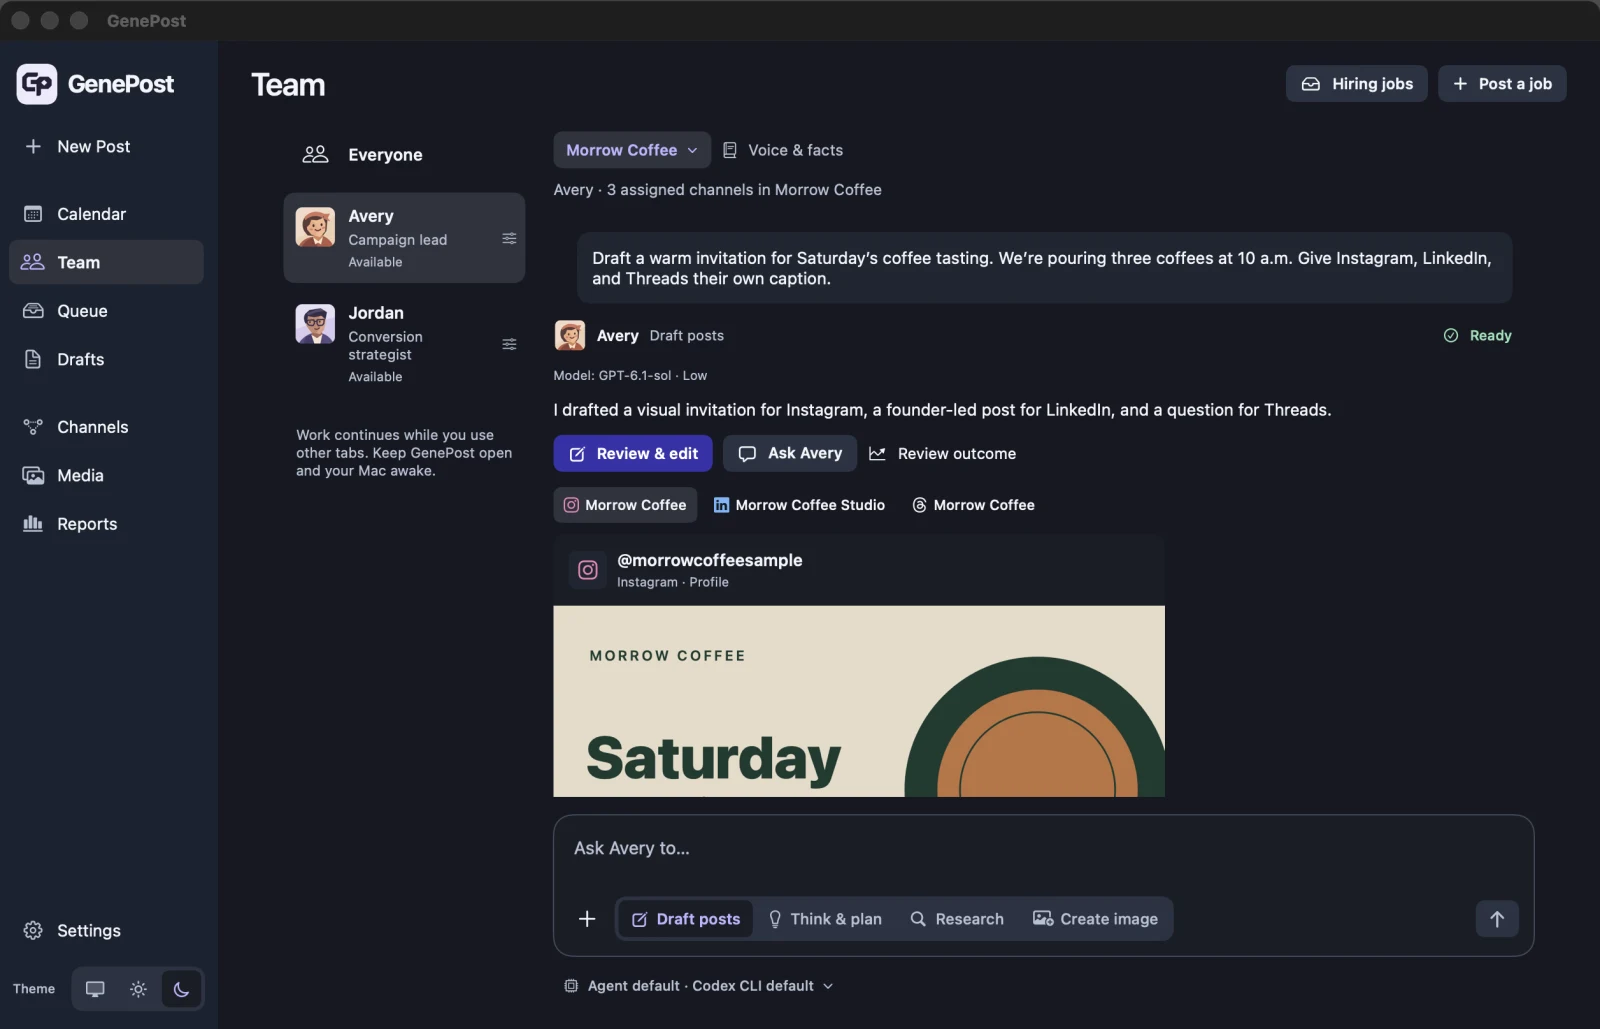
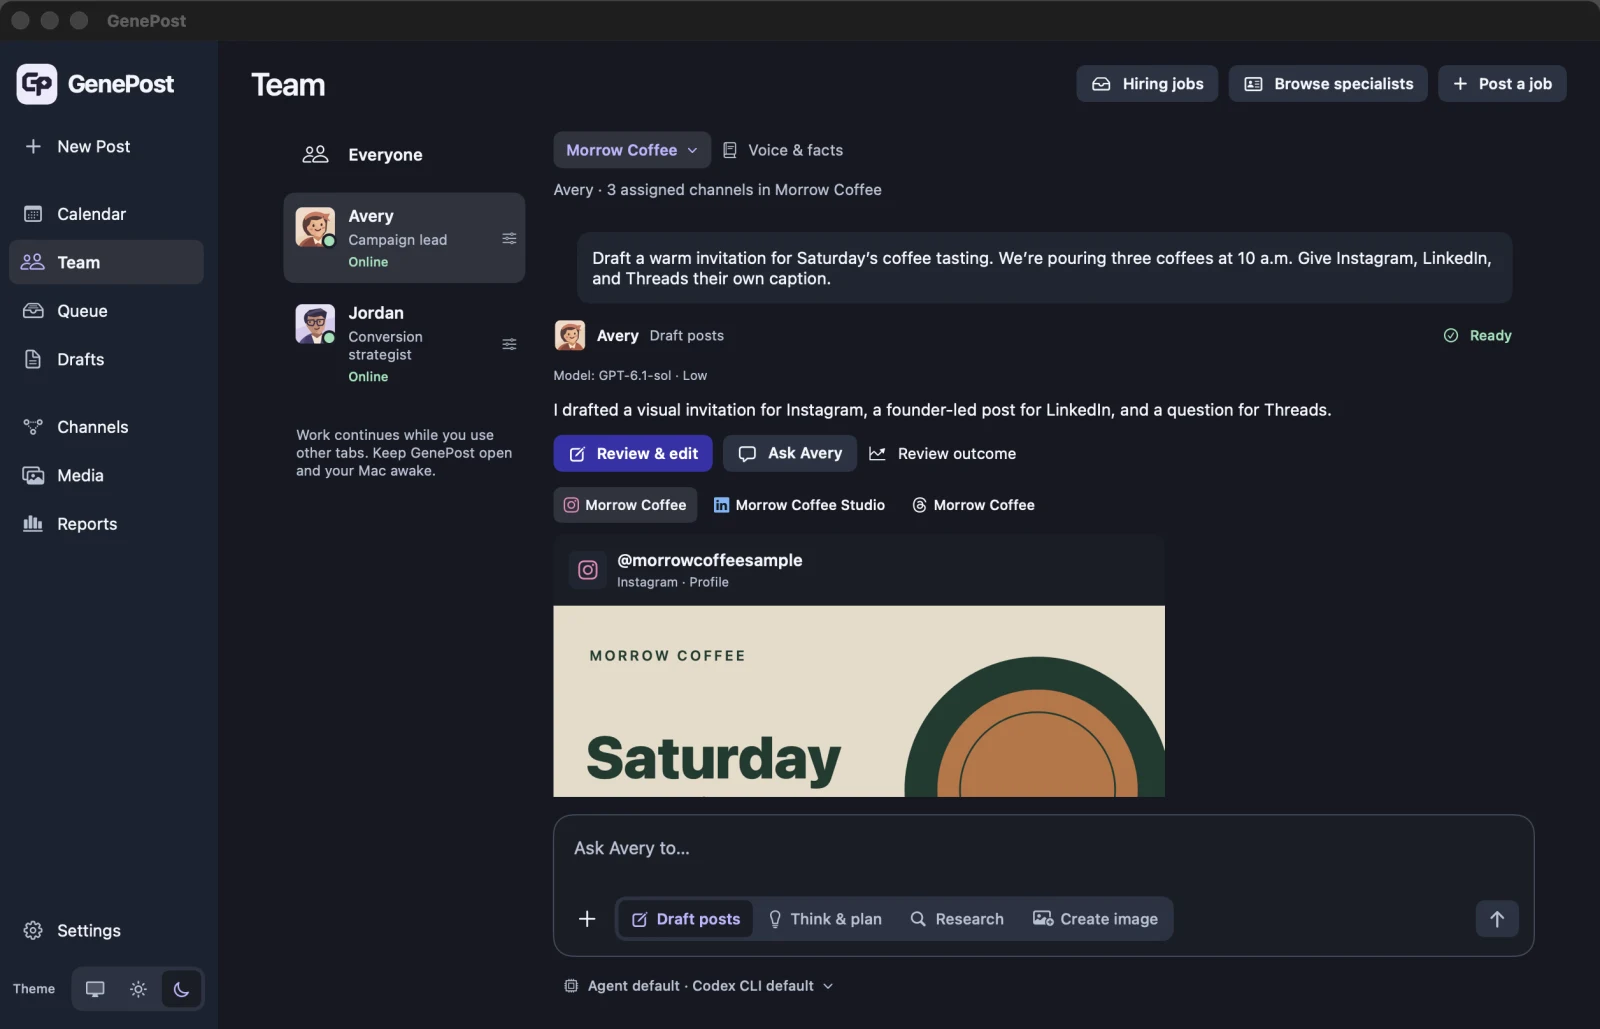
Show the available specialist directory and presence

diff --git a/assets/site.js b/assets/site.js
@@ -80,6 +80,7 @@ function newState(campaignID, seed = true) {
   return {
     campaignID, campaign, view: 'compose', theme: 'dark', idea: campaign.idea,
     jobTitle: campaign.job, jobDescription: campaign.scope, hireStep: '', hiring: null, team: [],
+    directorySpecialist: null, directRole: null,
     channels, platform: channels[0], captions: null,
     media: [
       { id: 'cover', name: campaign.media.name, src: assets + campaign.media.file, alt: campaign.media.alt },
@@ -107,15 +108,16 @@ function action(name, label, { value = '', kind = '', glyph = '', pressed, title
     (glyph ? icon(glyph) : '') + label + '</button>';
 }
 const avatar = candidate => '<img class="agent-avatar" src="' + assets + 'team-marks/' + candidate.avatar + '" width="64" height="64" alt="">';
+const onlineAvatar = person => '<span class="agent-presence">' + avatar(person) + '<i aria-hidden="true"></i></span>';
 
 const walkthrough = [
   ['Choose channels', '.demo-sidebar [data-value="channels"]', { chapter: 'channels', hold: 1550 }],
   ['Open Team', '.demo-sidebar [data-value="team"]', { chapter: 'hire' }],
+  ['Browse specialists', '[data-action="browse-specialists"]', { hold: 1000 }],
+  ['Review sample work', '[data-action="select-specialist"][data-value="Sol"]', { hold: 2000 }],
+  ['Return to Team', '[data-action="close-portfolios"]', { hold: 750 }],
   ['Post a job', '[data-action="post-job"]'],
   ['Post the role', '[data-submit="post-role"] button[type="submit"]', { hold: 2050 }],
-  ['Browse portfolios', '[data-action="browse-portfolios"]', { hold: 1000 }],
-  ['Review sample work', '[data-action="select-specialist"][data-value="Sol"]', { hold: 2000 }],
-  ['Return to job', '[data-action="close-portfolios"]', { hold: 750 }],
   ['Review applications', '[data-action="review-applications"]', { hold: 1150 }],
   ['Compare applicants', '[data-action="candidate"][data-value="Jordan"]', { hold: 1650 }],
   ['Start interview', '[data-action="interview"]', { hold: 1200 }],
@@ -193,10 +195,13 @@ function mountDemo(root, preview = false) {
   const brand = () => '<span class="app-brand">' + escapeHTML(state.campaign.name) + '</span>';
   const empty = (glyph, text, button = '') => '<div class="app-empty">' + icon(glyph) + '<p>' + text + '</p>' + button + '</div>';
   const availableSpecialists = () => candidates.filter(person => !state.team.some(member => member.person.name === person.name));
+  const directHiring = () => state.hireStep.startsWith('direct-');
+  const hiringJob = () => directHiring() ? state.directRole : state.hiring;
 
   function hiringCandidate() {
-    const job = state.hiring;
-    const name = state.hireStep === 'interview' ? job.interviewing : state.hireStep === 'portfolios' ? job.portfolio : job.selected;
+    const job = hiringJob();
+    const name = state.hireStep === 'directory' ? state.directorySpecialist :
+      state.hireStep.endsWith('interview') ? job.interviewing : state.hireStep === 'portfolios' ? job.portfolio : job.selected;
     return candidates.find(person => person.name === name);
   }
   const upload = () => '<label class="app-button upload">' + icon('upload') +
@@ -251,15 +256,17 @@ function mountDemo(root, preview = false) {
   }
 
   function team() {
-    const job = state.hiring;
-    if (state.hireStep === 'job') {
-      return heading('Post a job', brand()) + '<form class="app-stack job-form" data-submit="post-role">' +
-        '<label class="app-field">Job title<input data-field="jobTitle" required maxlength="64" value="' + escapeHTML(state.jobTitle) + '"></label>' +
-        '<label class="app-field">Job description<textarea data-field="jobDescription" required rows="3" maxlength="300">' +
-        escapeHTML(state.jobDescription) + '</textarea></label>' +
+    const job = hiringJob();
+    if (state.hireStep === 'job' || state.hireStep === 'direct-role') {
+      const direct = directHiring();
+      return heading(direct ? 'Set up ' + job.selected + '’s role' : 'Post a job', brand()) +
+        '<form class="app-stack job-form" data-submit="' + (direct ? 'prepare-role' : 'post-role') + '">' +
+        '<label class="app-field">Role title<input data-field="jobTitle" required maxlength="64" value="' + escapeHTML(direct ? job.title : state.jobTitle) + '"></label>' +
+        '<label class="app-field">Role description<textarea data-field="jobDescription" required rows="3" maxlength="300">' +
+        escapeHTML(direct ? job.description : state.jobDescription) + '</textarea></label>' +
         '<div class="app-row">' + state.channels.map(platformName).map(label => '<span class="agent-chip">' + label + '</span>').join('') + '</div>' +
-        '<div class="app-row job-actions">' + action('team-home', 'Cancel', { kind: 'job-back' }) +
-        '<button class="app-button app-primary" type="submit">' + icon('right') + 'Post job</button></div></form>';
+        '<div class="app-row job-actions">' + action(direct ? 'browse-specialists' : 'team-home', 'Cancel', { kind: 'job-back' }) +
+        '<button class="app-button app-primary" type="submit">' + icon('right') + (direct ? 'Start interview' : 'Post job') + '</button></div></form>';
     }
     if (state.hireStep === 'posted') {
       return heading('Job posted', brand()) + '<div class="job-receipt app-stack">' +
@@ -289,14 +296,16 @@ function mountDemo(root, preview = false) {
         action('interview', job.interviews[candidate.name]?.turns.length ? 'Open interview' : 'Start interview',
           { glyph: 'right', kind: 'app-primary' }) + '</div></div></section></div>';
     }
+    if (state.hireStep === 'directory') return portfolios();
     if (state.hireStep === 'portfolios') return portfolios(job);
-    if (state.hireStep === 'interview') {
+    if (state.hireStep.endsWith('interview')) {
       const candidate = hiringCandidate();
       const { draft, turns } = job.interviews[candidate.name];
       const directions = turns.filter(turn => turn.direction);
       return heading('Interview ' + candidate.name, brand()) +
         '<div class="job-context"><p>' + escapeHTML(job.title) + '</p>' +
-        action('close-interview', job.interviewFrom === 'portfolios' ? 'Portfolios' : 'Applications', { glyph: 'left', kind: 'job-back' }) + '</div>' +
+        action('close-interview', directHiring() ? 'Role setup' : job.interviewFrom === 'portfolios' ? 'Portfolios' : 'Applications',
+          { glyph: 'left', kind: 'job-back' }) + '</div>' +
         '<div class="interview-thread app-stack" aria-label="Sample interview">' +
         '<div class="interview-line">' + avatar(candidate) + '<p>What voice should I use for this role?</p></div>' +
         turns.map((turn, index) => '<div class="interview-line interview-you"><p>' + escapeHTML(turn.message) + '</p></div>' +
@@ -314,12 +323,15 @@ function mountDemo(root, preview = false) {
       '<span><strong>' + escapeHTML(job.title) + '</strong><small>' +
       (job.ready ? (job.reviewed ? 'Applications' : job.applicants.length + ' new applications') : 'Waiting for applications') + '</small></span>',
       { glyph: 'team', kind: 'app-list-row' }) + '</div>' : '';
-    return heading('Team', job || state.team.length === candidates.length ? brand() : action('post-job', 'Post a job', { glyph: 'plus', kind: 'app-primary' })) +
+    const hiringActions = availableSpecialists().length ? '<div class="app-row">' +
+      action('browse-specialists', 'Browse specialists', { glyph: 'drafts' }) +
+      (job ? '' : action('post-job', 'Post a job', { glyph: 'plus', kind: 'app-primary' })) + '</div>' : brand();
+    return heading('Team', hiringActions) +
       openJob +
       (state.team.length
         ? '<div class="team-list">' + state.team.map(({ person, directions }) =>
-          '<div class="app-list-row">' + avatar(person) + '<span><strong>' + person.name + '</strong><small>' +
-          person.role + '</small>' + (directions.length ? '<small class="team-direction">' + icon('check') +
+          '<div class="app-list-row">' + onlineAvatar(person) + '<span><strong>' + person.name + '</strong><small>' +
+          person.role + ' · <span class="online-status">Online</span></small>' + (directions.length ? '<small class="team-direction">' + icon('check') +
             escapeHTML(directions.join(' ')) + '</small>' : '') + '</span></div>'
         ).join('') + '</div>' + action('screen', 'Brief teammate', { value: 'compose', glyph: 'right' })
         : job ? '' : empty('team', 'Build your team'));
@@ -327,19 +339,22 @@ function mountDemo(root, preview = false) {
 
   function portfolios(job) {
     const specialist = hiringCandidate();
+    const roster = job ? candidates : availableSpecialists();
     const art = specialist.portfolioImage ? '<img src="' + assets + 'team-marks/' + specialist.portfolioImage +
       '" alt="Coffee tasting bowls beside bags of beans" width="320" height="180">' : '';
     const sample = specialist.portfolioSample.split('\n\n').map(part => '<p>' + escapeHTML(part) + '</p>').join('');
-    return heading('Specialist portfolios', brand()) +
-      '<div class="job-context"><p>' + escapeHTML(job.title) + '</p>' +
-      action('close-portfolios', job.portfoliosFrom === 'applicants' ? 'Applications' : 'Job post', { glyph: 'left', kind: 'job-back' }) + '</div>' +
+    return heading(job ? 'Specialist portfolios' : 'Available specialists',
+      job ? brand() : action('close-portfolios', 'Team', { glyph: 'left', kind: 'job-back' })) +
+      (job ? '<div class="job-context"><p>' + escapeHTML(job.title) + '</p>' +
+      action('close-portfolios', job.portfoliosFrom === 'applicants' ? 'Applications' : 'Job post', { glyph: 'left', kind: 'job-back' }) + '</div>' : '') +
       '<div class="applicant-panel"><div class="applicants specialists" role="group" aria-label="Available specialists">' +
-      availableSpecialists().map(person => action('select-specialist', avatar(person) + '<strong>' + person.name + '</strong><small>' + person.role + '</small>',
-        { value: person.name, pressed: person.name === specialist.name, kind: 'candidate' })).join('') + '</div>' +
+      roster.map(person => action('select-specialist', onlineAvatar(person) + '<strong>' + person.name + '</strong><small>' + person.role + '</small>',
+        { value: person.name, pressed: person.name === specialist.name, kind: 'candidate',
+          title: person.name + ', ' + person.role + ', Online' })).join('') + '</div>' +
       '<section class="candidate-profile" aria-label="Specialist profile"><div class="portfolio-heading"><div class="candidate-meta"><h3>' + specialist.name +
-      '</h3><span>' + specialist.specialty + '</span></div><div class="app-row job-actions">' +
-      action('hire', 'Hire ' + specialist.name) + action('interview', job.interviews[specialist.name] ? 'Open interview' : 'Invite to interview',
-        { glyph: 'right', kind: 'app-primary' }) + '</div></div>' +
+      '</h3><span class="online-status">Online</span><span>' + specialist.specialty + '</span></div><div class="app-row job-actions">' +
+      (job ? action('hire', 'Hire ' + specialist.name) + action('interview', job.interviews[specialist.name] ? 'Open interview' : 'Invite to interview',
+        { glyph: 'right', kind: 'app-primary' }) : action('set-up-role', 'Set up role', { glyph: 'right', kind: 'app-primary' })) + '</div></div>' +
       '<div class="portfolio-work' + (art ? ' with-art' : '') + '">' + art + '<div><span>Sample work</span><h4>' +
       escapeHTML(specialist.portfolioTitle) + '</h4><div class="portfolio-copy">' + sample + '</div></div></div></section></div>';
   }
@@ -646,21 +661,50 @@ function mountDemo(root, preview = false) {
       state.hireStep = 'portfolios';
       draw({ moved: true });
     },
+    'browse-specialists': () => {
+      const available = availableSpecialists();
+      if (!available.length) return;
+      if (!available.some(person => person.name === state.directorySpecialist)) state.directorySpecialist = available[0].name;
+      state.hireStep = 'directory';
+      draw({ moved: true });
+    },
     'select-specialist': name => {
-      if (state.hiring.portfolio === name) return;
-      state.hiring.portfolio = name;
+      if (hiringCandidate()?.name === name) return;
+      if (state.hireStep === 'directory') state.directorySpecialist = name;
+      else state.hiring.portfolio = name;
       draw({ reveal: '.portfolio-work' });
     },
-    'close-portfolios': () => { state.hireStep = state.hiring.portfoliosFrom; draw({ moved: true }); },
+    'close-portfolios': () => {
+      state.hireStep = state.hireStep === 'directory' ? '' : state.hiring.portfoliosFrom;
+      draw({ moved: true });
+    },
+    'set-up-role': () => {
+      const specialist = hiringCandidate();
+      if (state.directRole?.selected !== specialist.name) {
+        state.directRole = {
+          selected: specialist.name, title: specialist.role,
+          description: state.campaign.scope, interviews: {},
+        };
+      }
+      state.hireStep = 'direct-role';
+      draw({ moved: true });
+    },
+    'prepare-role': () => {
+      if (!state.directRole.title.trim() || !state.directRole.description.trim()) {
+        state.error = 'Add a role title and description';
+        return draw();
+      }
+      commands.interview();
+    },
     interview: () => {
-      const job = state.hiring;
+      const job = hiringJob();
       job.interviewing = hiringCandidate().name;
       job.interviews[job.interviewing] ??= { draft: '', turns: [] };
       job.interviewFrom = state.hireStep;
-      state.hireStep = 'interview';
+      state.hireStep = directHiring() ? 'direct-interview' : 'interview';
       draw({ moved: true });
     },
-    'close-interview': () => { state.hireStep = state.hiring.interviewFrom; draw({ moved: true }); },
+    'close-interview': () => { state.hireStep = hiringJob().interviewFrom; draw({ moved: true }); },
     'sample-direction': () => {
       const field = workspace.querySelector('[data-field="interviewMessage"]');
       if (field.value.trim()) return field.focus();
@@ -669,7 +713,7 @@ function mountDemo(root, preview = false) {
       if (!playback) field.focus();
     },
     'interview-message': () => {
-      const job = state.hiring;
+      const job = hiringJob();
       const interview = job.interviews[job.interviewing];
       const message = interview.draft.trim();
       if (!message) return;
@@ -684,11 +728,12 @@ function mountDemo(root, preview = false) {
       if (!playback) workspace.querySelector('[data-field="interviewMessage"]').focus({ preventScroll: true });
     },
     hire: () => {
-      const job = state.hiring;
+      const job = hiringJob();
       const person = hiringCandidate();
       const directions = (job.interviews[person.name]?.turns ?? []).filter(turn => turn.direction).map(turn => turn.message);
       state.team.push({ person, directions });
-      state.hiring = null;
+      if (directHiring()) state.directRole = null;
+      else state.hiring = null;
       state.hireStep = '';
       state.notice = person.name + ' joined the team';
       draw({ moved: true });
@@ -956,7 +1001,13 @@ function mountDemo(root, preview = false) {
   workspace.addEventListener('input', event => {
     const { field } = event.target.dataset;
     if (field === 'caption') state.captions[state.platform] = event.target.value;
-    else if (field === 'interviewMessage') state.hiring.interviews[state.hiring.interviewing].draft = event.target.value;
+    else if (field === 'interviewMessage') {
+      const job = hiringJob();
+      job.interviews[job.interviewing].draft = event.target.value;
+    }
+    else if (directHiring() && (field === 'jobTitle' || field === 'jobDescription')) {
+      state.directRole[field === 'jobTitle' ? 'title' : 'description'] = event.target.value;
+    }
     else if (field) state[field] = event.target.value;
   });
   workspace.addEventListener('change', event => {

diff --git a/assets/demo.css b/assets/demo.css
@@ -223,6 +223,12 @@
 .library-art :is(img, video) { width: 100%; height: auto; max-height: 175px; object-fit: contain; }
 .library figcaption { display: flex; flex-wrap: wrap; align-items: center; justify-content: space-between; gap: 7px; padding: 8px; overflow-wrap: anywhere; font-size: 12px; }
 .agent-avatar { display: block; width: 38px; height: 38px; flex: none; }
+.agent-presence { position: relative; display: inline-flex; flex: none; }
+.agent-presence i {
+  position: absolute; right: 0; bottom: 0; width: 10px; height: 10px; border: 2px solid var(--app-fill);
+  border-radius: 50%; background: var(--app-success);
+}
+.demo-app .online-status { color: var(--app-success); }
 .agent-chip { display: inline-flex; align-items: center; gap: 5px; font-size: 12px; font-weight: 640; color: var(--app-muted); }
 .agent-chip .agent-avatar { width: 25px; height: 25px; }
 .job-form, .job-receipt, .applicant-panel, .interview-thread, .interview-form { width: 100%; max-width: 560px; margin-inline: auto; }
@@ -269,8 +275,9 @@
   .specialists { grid-template-columns: repeat(auto-fit, minmax(74px, 1fr)); }
 }
 @media (hover: hover) and (pointer: fine) and (prefers-reduced-motion: no-preference) {
-  .candidate:hover .agent-avatar { transform: translateY(-2px); }
+  .candidate:hover > .agent-avatar, .candidate:hover > .agent-presence { transform: translateY(-2px); }
 }
+.candidate .agent-presence { transition: transform 200ms var(--ease-arrive); }
 .job-context {
   display: flex; justify-content: space-between; align-items: center; gap: 8px;
   color: var(--app-muted); max-width: 560px; margin: -7px auto 9px; overflow-wrap: anywhere; font-size: 13px;

diff --git a/docs/index.html b/docs/index.html
@@ -71,6 +71,7 @@
     </section>
     <section id="team">
       <h2>Hire an agent</h2>
+      <p>Open <strong>Team → Browse specialists</strong> to compare sample work. Pick a specialist and choose <strong>Set up role</strong> to interview or hire them. Post a job if you’d like to review applications for a role.</p>
       <ol>
         <li>Open <strong>Team → Post a job</strong>. Describe the role and choose its brand group and channels.</li>
         <li>When Team shows new applications, open a profile to read their strengths and approach.</li>
@@ -80,6 +81,7 @@
         <li>Choose <strong>Review outcome</strong> on a result to share what happened. Approve a useful lesson with <strong>Keep lesson</strong>. The teammate uses it in that brand’s future work.</li>
       </ol>
       <p>Edit an agent’s profile to set its default model and reasoning level. The picker beneath a conversation lets you override those settings for that conversation. Each task keeps its selected model.</p>
+      <p>A green dot means Online. A teammate shows Working during an active task and Busy when work is queued. Open their profile to set Busy or Invisible.</p>
       <p>Tasks run while GenePost is open. Keep the Mac awake for work in progress. Check the status in Team and use the saved result or retry an interrupted task.</p>
     </section>
     <section id="publish">

diff --git a/index.html b/index.html
@@ -13,8 +13,8 @@
   <meta property="og:image" content="https://selwynuy.github.io/GenePost/assets/calendar.webp">
   <link rel="icon" href="./assets/genepost.svg?v=531d221c39" type="image/svg+xml">
   <link rel="stylesheet" href="./assets/site.css?v=4427fadfb1">
-  <link rel="stylesheet" href="./assets/demo.css?v=b2d3fdcb57">
-  <script src="./assets/site.js?v=5b311f6089" defer></script>
+  <link rel="stylesheet" href="./assets/demo.css?v=21eb20640f">
+  <script src="./assets/site.js?v=4b190c02a4" defer></script>
 </head>
 <body>
   <a class="skip" href="#main">Skip to content</a>
